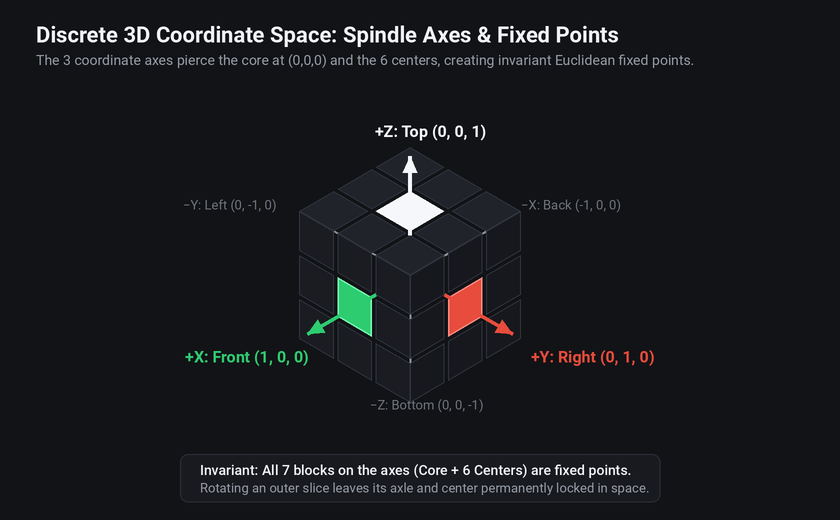
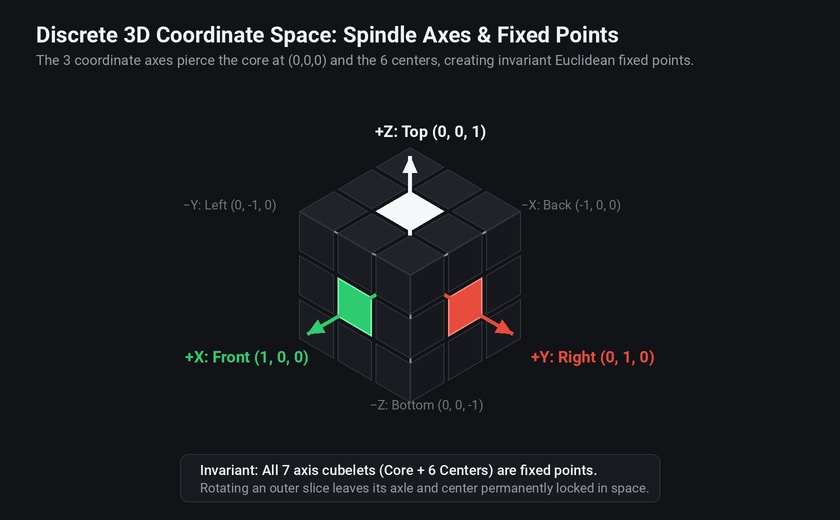
docs: unify terminology to strictly use cubelet and facelet across all text and diagrams

Changed region(s): [[0.3405, 0.8923, 0.7429, 0.9231]]

diff --git a/scripts/generate_axes.py b/scripts/generate_axes.py
@@ -197,7 +197,7 @@ box_h = 48 * SCALE
 bx0 = (W - box_w) // 2
 by0 = H - box_h - 18 * SCALE
 draw.rounded_rectangle([bx0, by0, bx0 + box_w, by0 + box_h], radius=8*SCALE, fill=(24, 26, 31), outline=(45, 48, 58), width=1*SCALE)
-draw.text((bx0 + 20*SCALE, by0 + 8*SCALE), "Invariant: All 7 blocks on the axes (Core + 6 Centers) are fixed points.", fill=C_TEXT_TITLE, font=font_label)
+draw.text((bx0 + 20*SCALE, by0 + 8*SCALE), "Invariant: All 7 axis cubelets (Core + 6 Centers) are fixed points.", fill=C_TEXT_TITLE, font=font_label)
 draw.text((bx0 + 20*SCALE, by0 + 26*SCALE), "Rotating an outer slice leaves its axle and center permanently locked in space.", fill=C_TEXT_SUB, font=font_small)
 
 # Save

diff --git a/scripts/generate_anatomy.py b/scripts/generate_anatomy.py
@@ -195,8 +195,8 @@ panels = [
     },
     {
         "title": "Cubelet",
-        "sub": "Constituent 3D block",
-        "stat": "1 of 27 blocks",
+        "sub": "Constituent 1×1×1 cube",
+        "stat": "1 of 27 cubelets",
         "stat_col": C_GREEN,
         "mode": "cubelet",
         "desc": "Rigid 1×1×1 body",

diff --git a/README.md b/README.md
@@ -58,7 +58,7 @@ Each coordinate axis corresponds to an opposing pair of faces:
 - **Z-axis:** $+Z$ points **Top** and $-Z$ points **Bottom**.
 
 > **Key Idea 2 (Rubix): Axis Intersections as Invariant Fixed Points**  
-> All 7 blocks intersecting a coordinate axis are fixed points in Euclidean space: the internal core at $(0,0,0)$ and the 6 face centers at unit distance $(\pm 1, 0, 0)$, $(0, \pm 1, 0)$, $(0, 0, \pm 1)$. Because slice rotations turn strictly *around* these coordinate axes, the spindle axes physically pierce and preserve these stationary anchors throughout every legal move.
+> All 7 cubelets intersecting a coordinate axis are fixed points in Euclidean space: the internal core at $(0,0,0)$ and the 6 face centers at unit distance $(\pm 1, 0, 0)$, $(0, \pm 1, 0)$, $(0, 0, \pm 1)$. Because slice rotations turn strictly *around* these coordinate axes, the spindle axes physically pierce and preserve these stationary anchors throughout every legal move.
 
 ---
 
@@ -68,44 +68,44 @@ We placed our coordinate origin at the center of the puzzle, assigning each of t
 
 Is this choice actually convenient, or did we just trade one set of headaches for another?
 
-Let's test it. Mechanically, a $3 \times 3 \times 3$ Rubik's cube has four distinct types of blocks, distinguished by how many colored stickers they expose:
-- **The Core (1 block):** The hidden internal mechanism at $(0,0,0)$. Exposes **0** stickers; never visible.
-- **Centers (6 blocks):** One at the center of each face. Exposes **1** sticker; rotates in place.
-- **Edges (12 blocks):** Border blocks between two faces. Exposes **2** stickers.
-- **Corners (8 blocks):** Vertex blocks joining three faces. Exposes **3** stickers.
+Let's test it. Mechanically, a $3 \times 3 \times 3$ Rubik's cube has four distinct types of cubelets, distinguished by how many colored facelets they expose:
+- **The Core (1 cubelet):** The hidden internal mechanism at $(0,0,0)$. Exposes **0** facelets; never visible.
+- **Centers (6 cubelets):** One at the center of each face. Exposes **1** facelet; rotates in place.
+- **Edges (12 cubelets):** Border cubelets between two faces. Exposes **2** facelets.
+- **Corners (8 cubelets):** Vertex cubelets joining three faces. Exposes **3** facelets.
 
-Notice the sequence of exposed stickers: **0, 1, 2, 3**.
+Notice the sequence of exposed facelets: **0, 1, 2, 3**.
 
 <p align="center">
   <img src="img/cubelet-types.png" alt="Types of Cubelets" width="600">
 </p>
 
 Now examine our coordinate values in $\lbrace -1, 0, 1 \rbrace$. Along each axis:
-- A coordinate of $0$ means the block is centered internally along that axis.
-- A coordinate of $\pm 1$ means the block touches the outer surface along that axis.
+- A coordinate of $0$ means the cubelet is centered internally along that axis.
+- A coordinate of $\pm 1$ means the cubelet touches the outer surface along that axis.
 
-The absolute value $|x| \in \lbrace 0, 1 \rbrace$ acts as an on/off indicator for whether the block touches an exterior boundary!
+The absolute value $|x| \in \lbrace 0, 1 \rbrace$ acts as an on/off indicator for whether the cubelet touches an exterior boundary!
 
 What happens if we add up the absolute values $|x| + |y| + |z|$ (the **Manhattan distance** or **$L_1$ norm** from the origin)?
 
 $$\|c\|_1 = |x| + |y| + |z|$$
 
-- At $(0, 0, 0)$: $|0| + |0| + |0| = \mathbf{0}$ $\rightarrow$ **Core** (0 stickers)
-- At $(1, 0, 0)$: $|1| + |0| + |0| = \mathbf{1}$ $\rightarrow$ **Center** (1 sticker)
-- At $(1, 1, 0)$: $|1| + |1| + |0| = \mathbf{2}$ $\rightarrow$ **Edge** (2 stickers)
-- At $(1, 1, 1)$: $|1| + |1| + |1| = \mathbf{3}$ $\rightarrow$ **Corner** (3 stickers)
+- At $(0, 0, 0)$: $|0| + |0| + |0| = \mathbf{0}$ $\rightarrow$ **Core** (0 facelets)
+- At $(1, 0, 0)$: $|1| + |0| + |0| = \mathbf{1}$ $\rightarrow$ **Center** (1 facelet)
+- At $(1, 1, 0)$: $|1| + |1| + |0| = \mathbf{2}$ $\rightarrow$ **Edge** (2 facelets)
+- At $(1, 1, 1)$: $|1| + |1| + |1| = \mathbf{3}$ $\rightarrow$ **Corner** (3 facelets)
 
-| Distance $\|c\|_1$ | Cubelet Type | Count | Exposed Stickers | Description |
+| Distance $\|c\|_1$ | Cubelet Type | Count | Exposed Facelets | Description |
 |:---:|:---|:---:|:---:|:---|
 | **0** | Core | 1 | 0 | Hidden internal mechanism; permanently at $(0,0,0)$ |
 | **1** | Center | 6 | 1 | Fixed centers; rotate in place, define face colors |
-| **2** | Edge | 12 | 2 | Border blocks between two faces |
-| **3** | Corner | 8 | 3 | Vertex blocks joining three faces |
+| **2** | Edge | 12 | 2 | Border cubelets between two faces |
+| **3** | Corner | 8 | 3 | Vertex cubelets joining three faces |
 
 Total: $1 + 6 + 12 + 8 = 27$ cubelets.
 
-> **Key Idea 3 (Rubix): The Manhattan Norm Classifies Blocks for Free**  
-> Centering coordinates at $(0, 0, 0) \in \lbrace -1, 0, 1 \rbrace^3$ turns coordinate magnitudes into boundary indicators. The Manhattan distance $\|c\|_1 = |x| + |y| + |z|$ literally counts the number of visible colored stickers ($0 \to \text{Core}$, $1 \to \text{Center}$, $2 \to \text{Edge}$, $3 \to \text{Corner}$) with zero lookup tables or conditional branches.
+> **Key Idea 3 (Rubix): The Manhattan Norm Classifies Cubelets for Free**  
+> Centering coordinates at $(0, 0, 0) \in \lbrace -1, 0, 1 \rbrace^3$ turns coordinate magnitudes into boundary indicators. The Manhattan distance $\|c\|_1 = |x| + |y| + |z|$ literally counts the number of visible colored facelets ($0 \to \text{Core}$, $1 \to \text{Center}$, $2 \to \text{Edge}$, $3 \to \text{Corner}$) with zero lookup tables or conditional branches.
 
 ---
 
